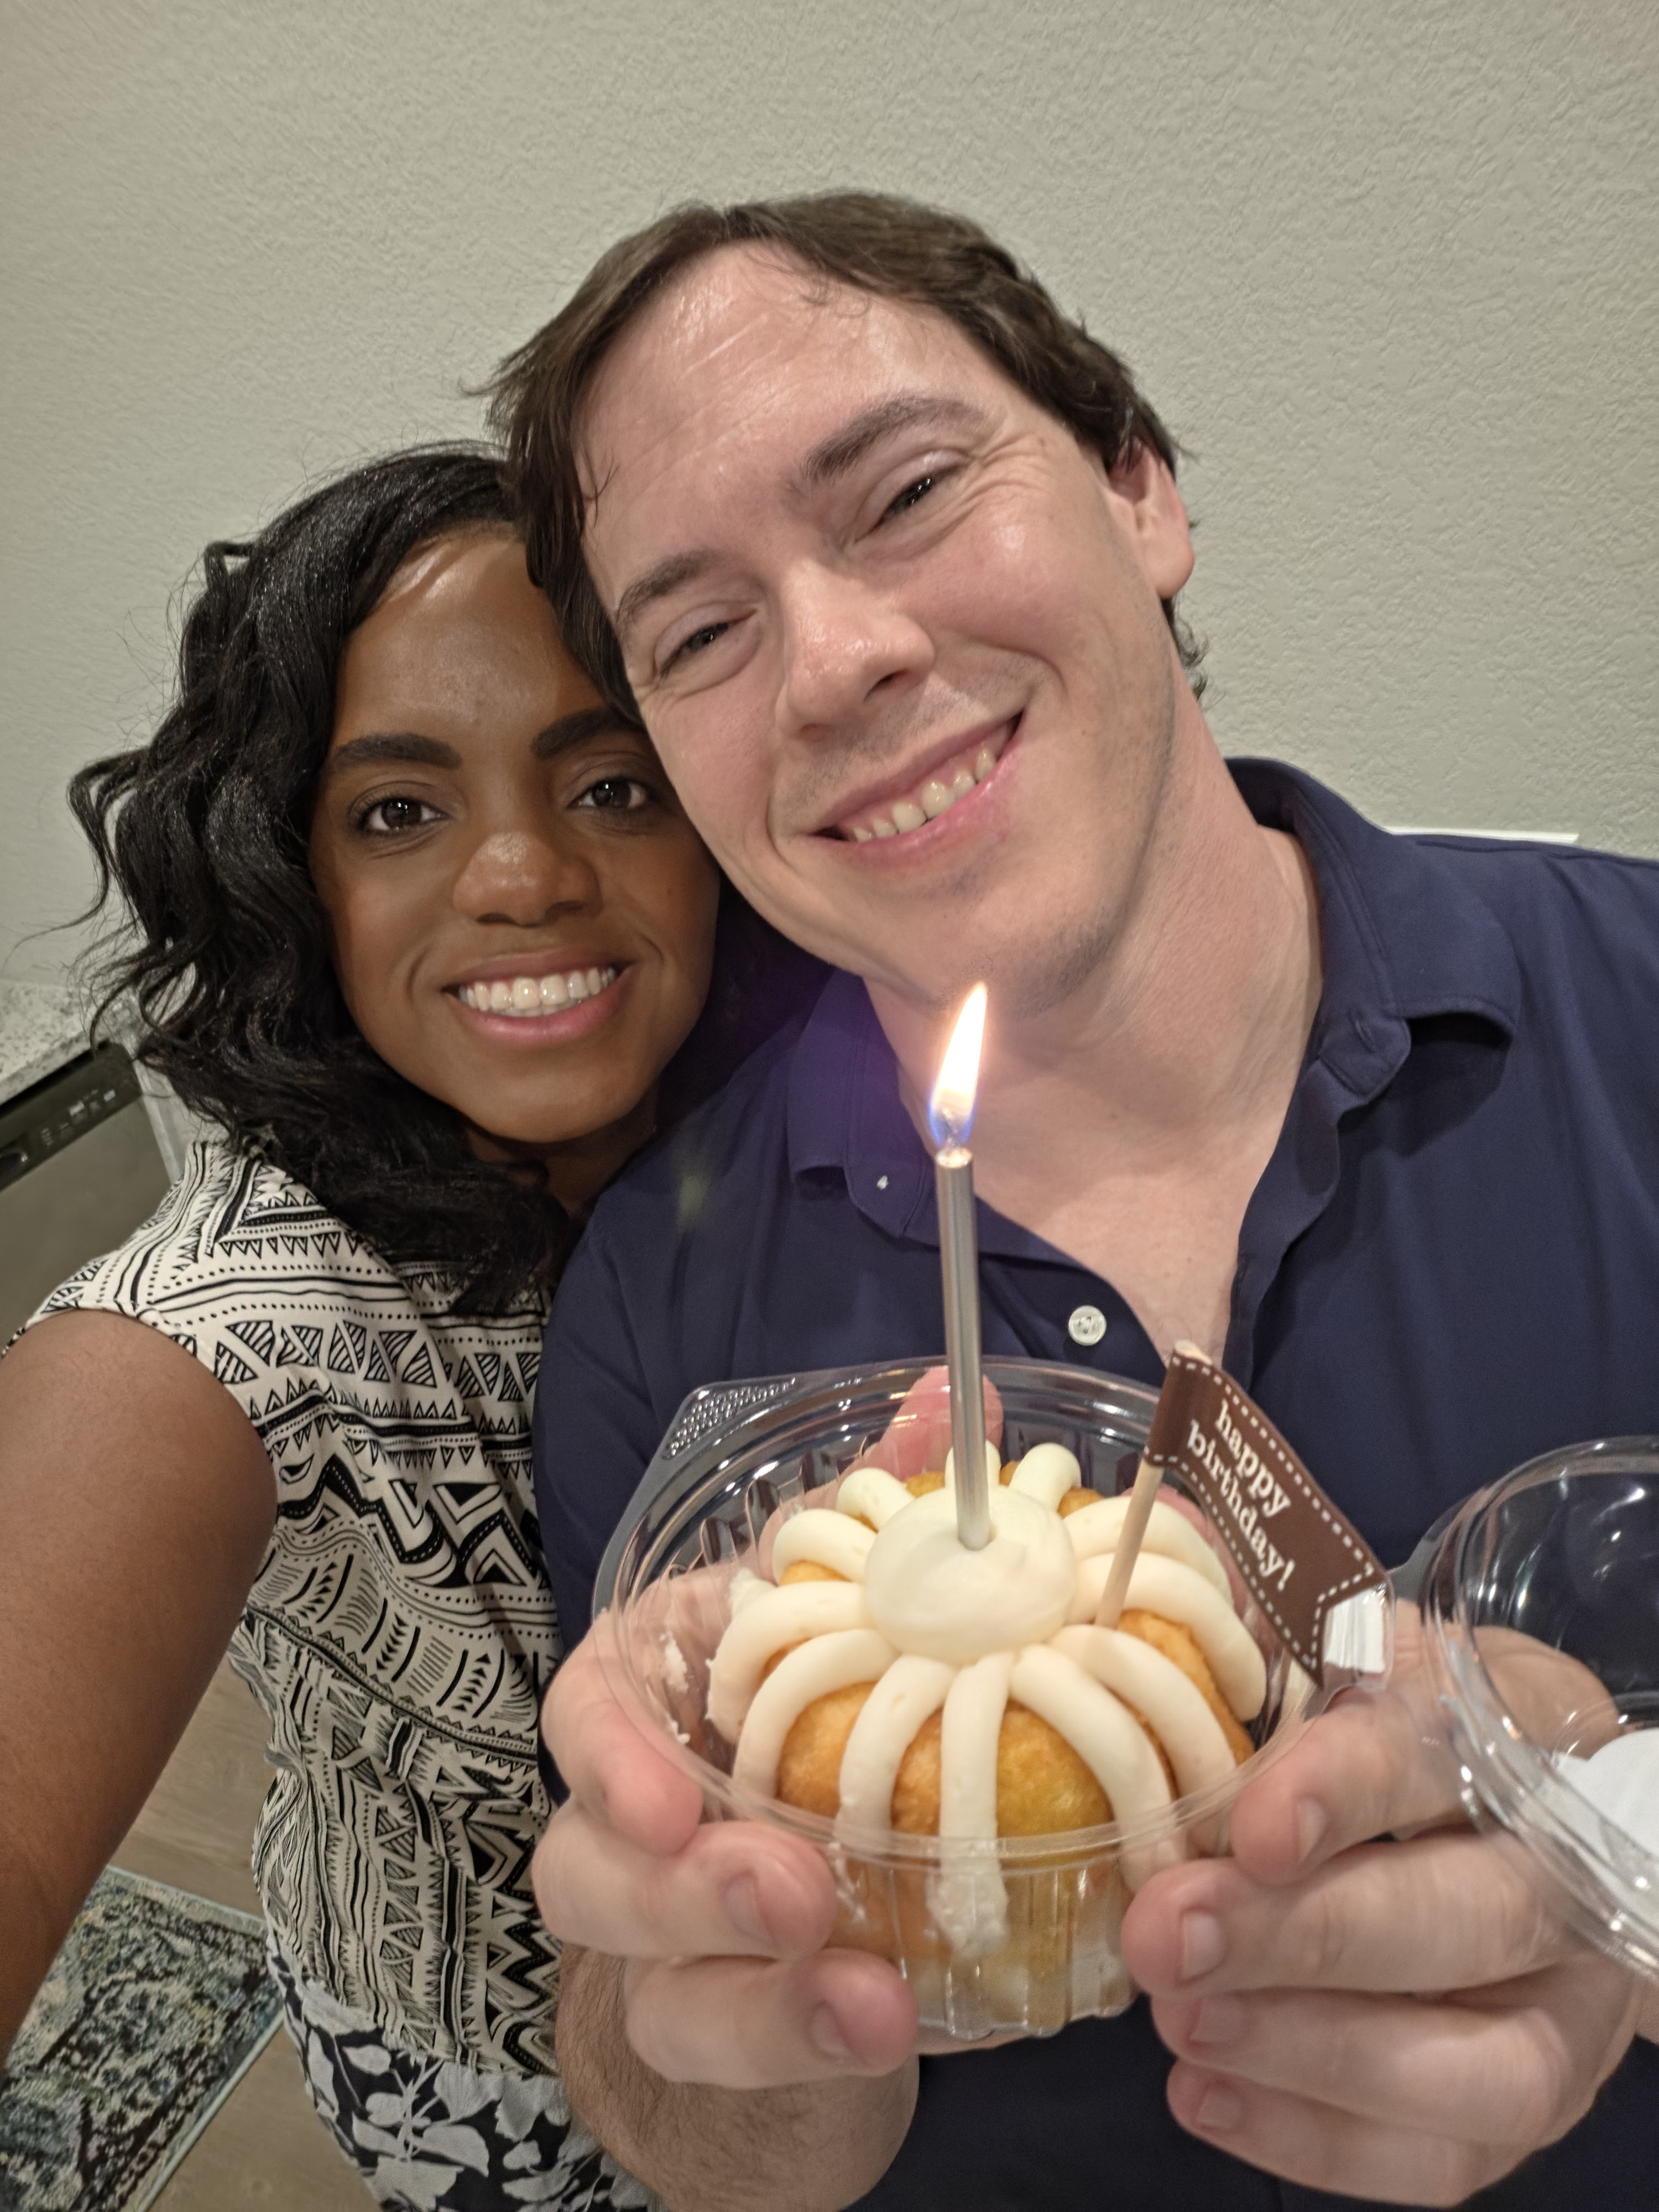
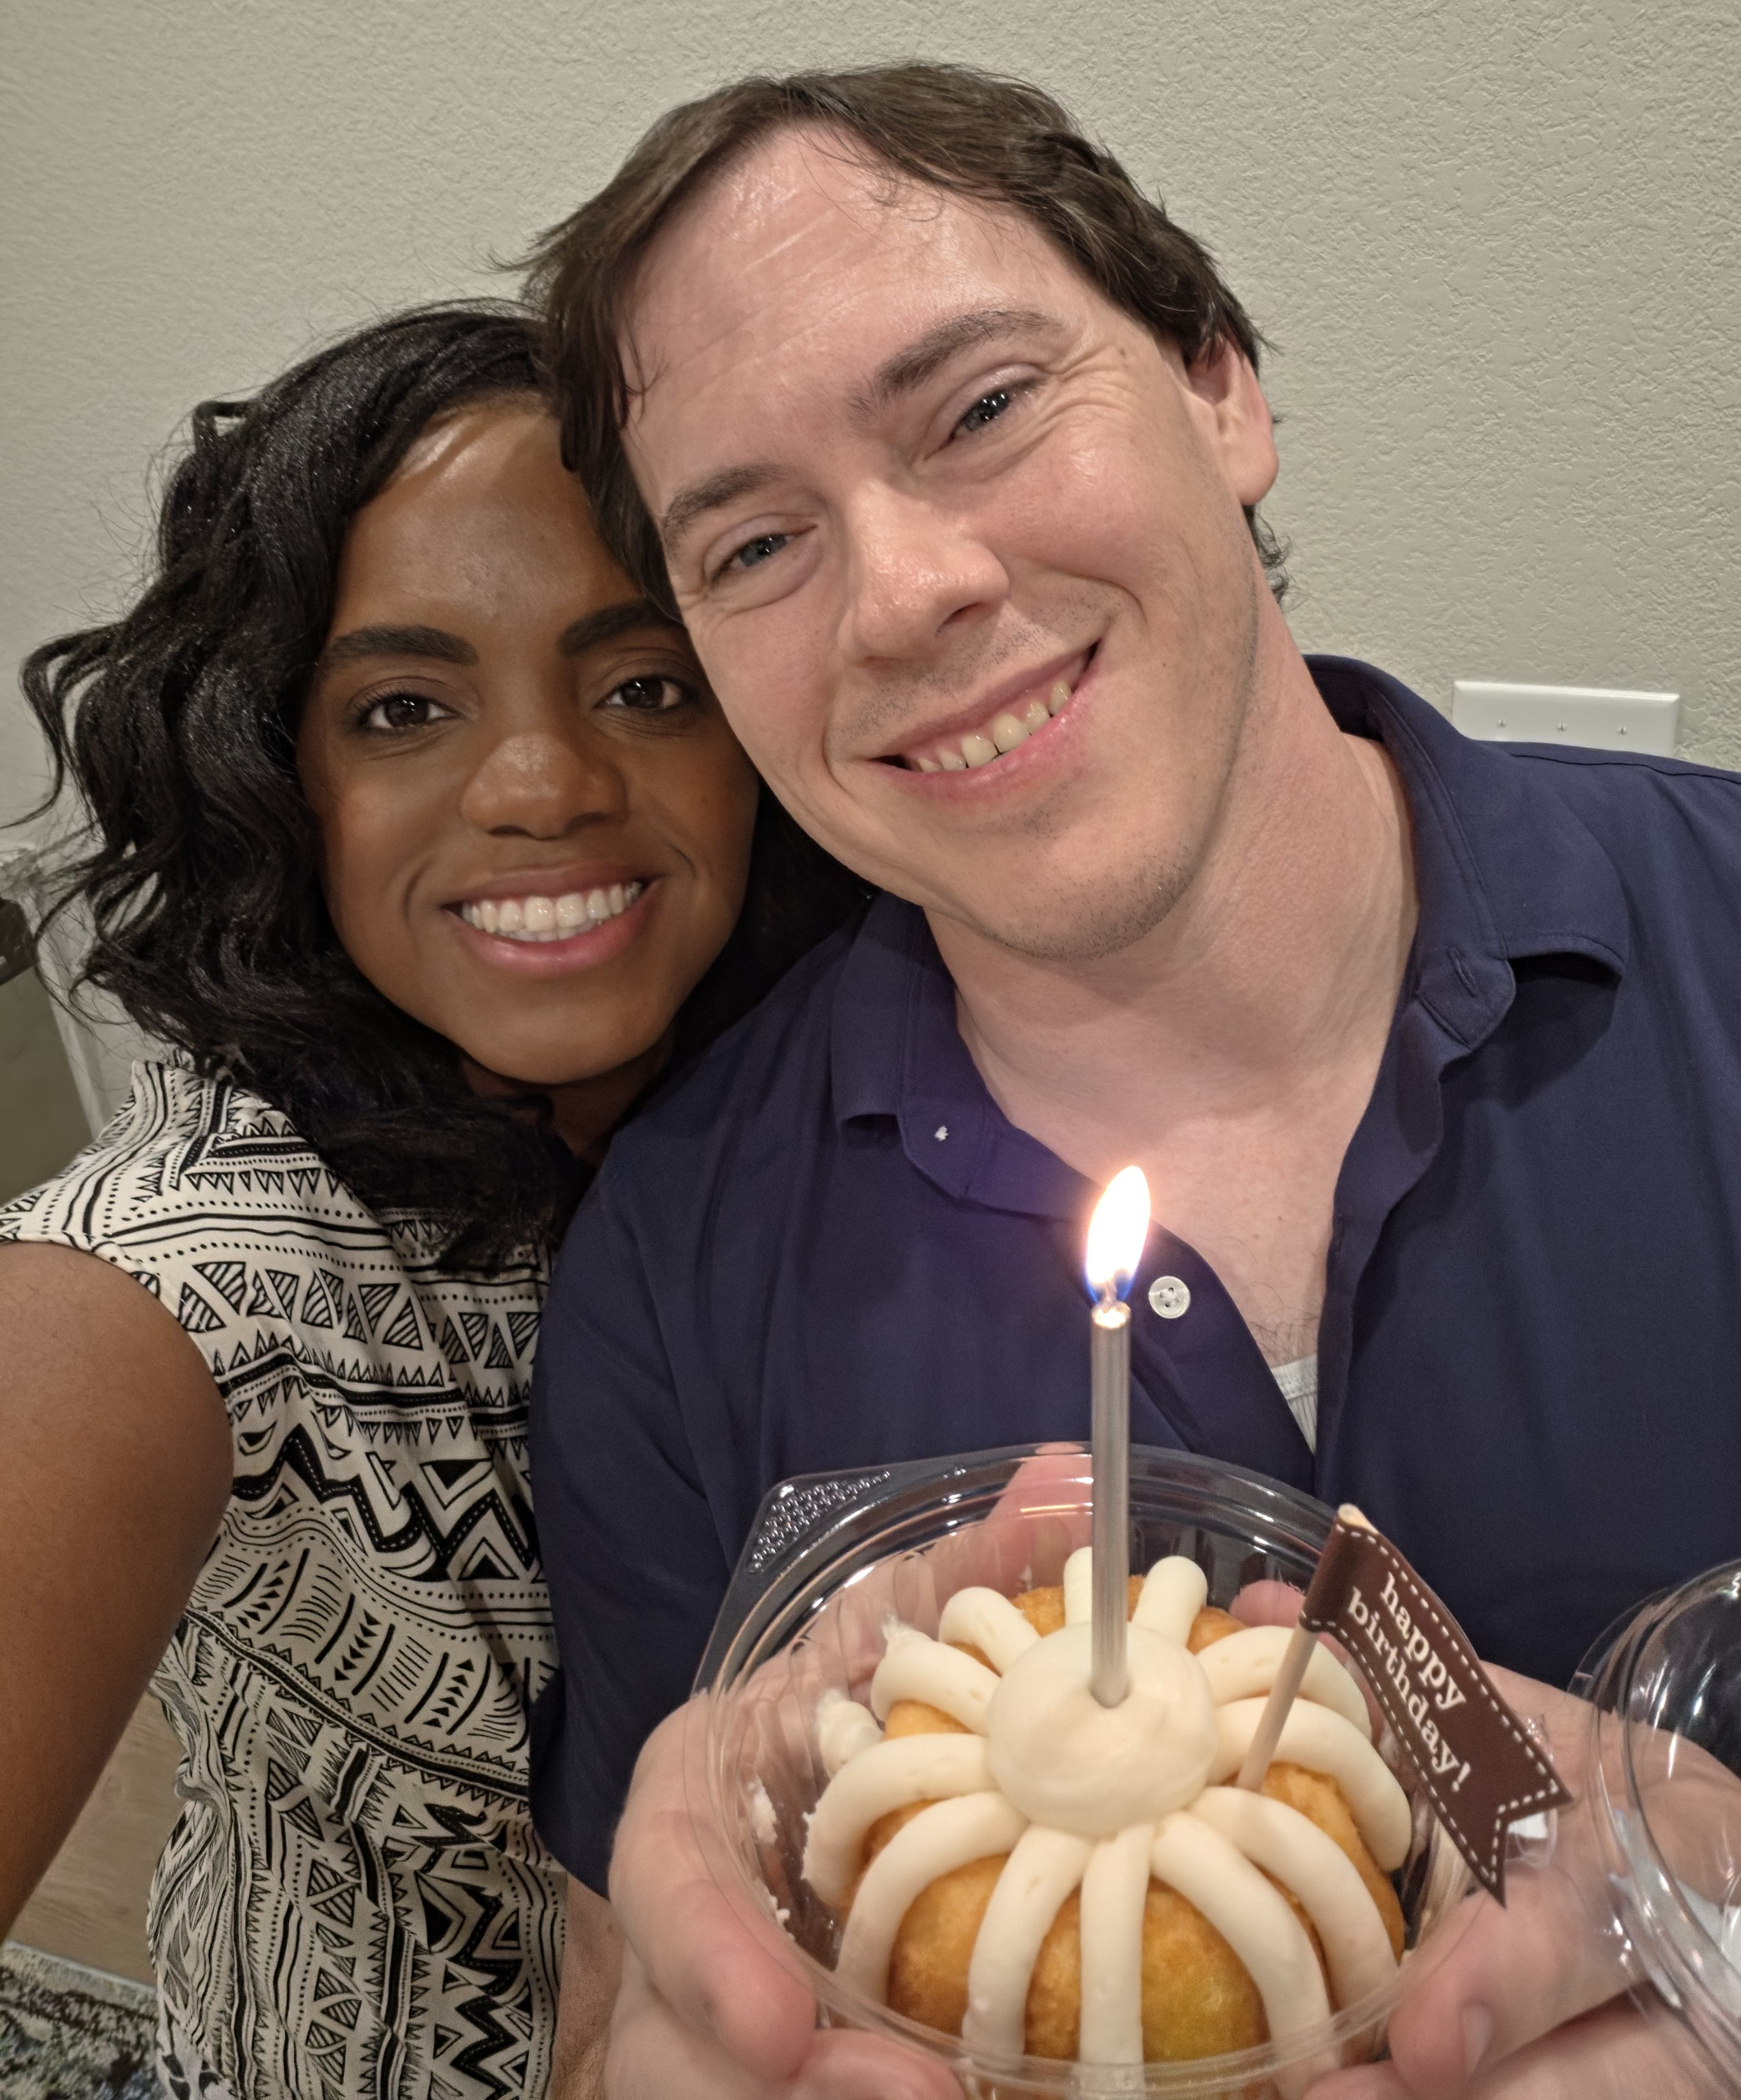
Add new photos to photos page

diff --git a/photos.md b/photos.md
@@ -7,11 +7,61 @@ subtitle: Photos of Erin, Ben, Hazel, & Zig.
 ---
 
 <figure>
-  <img src="{{ '/assets/images/photos/ErinBenBeach.jpg' | relative_url }}" alt="Padre Island">
+  <img src="{{ '/assets/images/photos/SanDiego.jpg' | relative_url }}" alt="San Diego">
+  <figcaption>San Diego</figcaption>
+</figure>
+
+<figure>
+  <img src="{{ '/assets/images/photos/HazelPadre.jpg' | relative_url }}" alt="Padre Island">
   <figcaption>Padre Island — Hazel's first trip to the beach</figcaption>
+</figure>
+
+<figure>
+  <img src="{{ '/assets/images/photos/HazelZigPadre.jpg' | relative_url }}" alt="Padre Island with Hazel and Zig">
+  <figcaption>Padre Island with Hazel and Zig</figcaption>
 </figure>
 
 <figure>
   <img src="{{ '/assets/images/photos/BensBirthday.jpg' | relative_url }}" alt="Ben's Birthday">
   <figcaption>Ben's Birthday</figcaption>
+</figure>
+
+<figure>
+  <img src="{{ '/assets/images/photos/HazelGotchaWZig.jpg' | relative_url }}" alt="Zig and Hazel at the park">
+  <figcaption>Zig and Hazel at the park on Hazel's Gotcha Day</figcaption>
+</figure>
+
+<figure>
+  <img src="{{ '/assets/images/photos/HazelGotchaAllFour.jpg' | relative_url }}" alt="All four of us">
+  <figcaption>One of our many attempts at getting a picture with the 4 of us 😄</figcaption>
+</figure>
+
+<figure>
+  <img src="{{ '/assets/images/photos/CaliforniaAdventure.jpg' | relative_url }}" alt="California Adventure">
+  <figcaption>California Adventure</figcaption>
+</figure>
+
+<figure>
+  <img src="{{ '/assets/images/photos/UniversalStudios.jpg' | relative_url }}" alt="Universal Studios">
+  <figcaption>Universal Studios</figcaption>
+</figure>
+
+<figure>
+  <img src="{{ '/assets/images/photos/Engagement.jpg' | relative_url }}" alt="Engaged">
+  <figcaption>Engaged!</figcaption>
+</figure>
+
+<figure>
+  <img src="{{ '/assets/images/photos/BaylorGame.jpg' | relative_url }}" alt="Ben's first Baylor game">
+  <figcaption>Ben's first Baylor game!</figcaption>
+</figure>
+
+<figure>
+  <img src="{{ '/assets/images/photos/Fredericksburg.jpg' | relative_url }}" alt="Fredericksburg">
+  <figcaption>Headed to dinner in Fredericksburg</figcaption>
+</figure>
+
+<figure>
+  <img src="{{ '/assets/images/photos/Winery.jpg' | relative_url }}" alt="Winery in Fredericksburg">
+  <figcaption>Winery in Fredricksburg</figcaption>
 </figure>